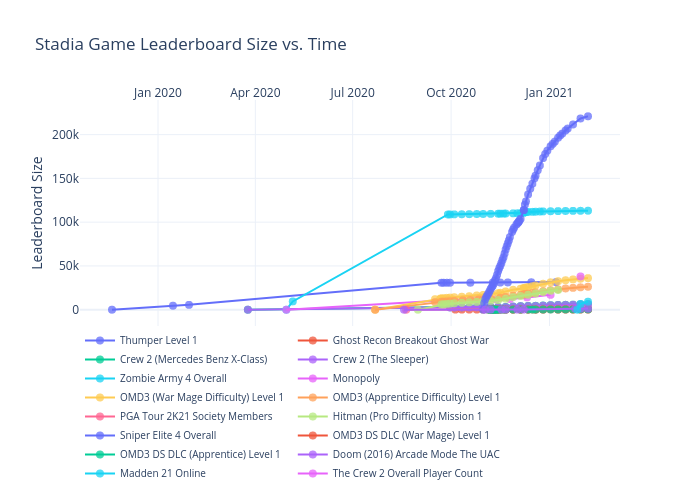
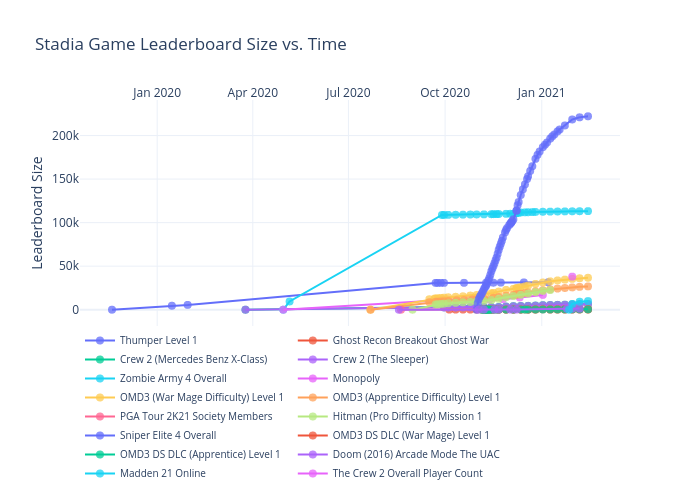
Add files via upload

diff --git a/leaderboards/figure.js b/leaderboards/figure.js
@@ -109,7 +109,8 @@ var figure = {
                 "2021-01-25",
                 "2021-01-27",
                 "2021-01-30",
-                "2021-02-06"
+                "2021-02-06",
+                "2021-02-14"
             ],
             "ysrc": "jdeslip:356:8adfc0",
             "y": [
@@ -320,7 +321,8 @@ var figure = {
                 "2021-01-25",
                 "2021-01-27",
                 "2021-01-30",
-                "2021-02-06"
+                "2021-02-06",
+                "2021-02-14"
             ],
             "ysrc": "jdeslip:356:aaaeee",
             "y": [
@@ -421,7 +423,8 @@ var figure = {
                 "",
                 "",
                 "164",
-                "170"
+                "170",
+                "175"
             ],
             "marker": {
                 "size": 8,
@@ -541,7 +544,8 @@ var figure = {
                 "2021-01-25",
                 "2021-01-27",
                 "2021-01-30",
-                "2021-02-06"
+                "2021-02-06",
+                "2021-02-14"
             ],
             "ysrc": "jdeslip:356:37c2d5",
             "y": [
@@ -642,7 +646,8 @@ var figure = {
                 "",
                 "",
                 "6133",
-                "6402"
+                "6402",
+                "6516"
             ],
             "marker": {
                 "size": 8,
@@ -762,7 +767,8 @@ var figure = {
                 "2021-01-25",
                 "2021-01-27",
                 "2021-01-30",
-                "2021-02-06"
+                "2021-02-06",
+                "2021-02-14"
             ],
             "ysrc": "jdeslip:356:c6aef6",
             "y": [
@@ -863,7 +869,8 @@ var figure = {
                 "",
                 "",
                 "5945",
-                "6196"
+                "6196",
+                "6327"
             ],
             "marker": {
                 "size": 8,
@@ -983,7 +990,8 @@ var figure = {
                 "2021-01-25",
                 "2021-01-27",
                 "2021-01-30",
-                "2021-02-06"
+                "2021-02-06",
+                "2021-02-14"
             ],
             "ysrc": "jdeslip:356:43bc60",
             "y": [
@@ -1084,7 +1092,8 @@ var figure = {
                 "",
                 "",
                 "112991",
-                "113089"
+                "113089",
+                "113201"
             ],
             "marker": {
                 "size": 8,
@@ -1204,7 +1213,8 @@ var figure = {
                 "2021-01-25",
                 "2021-01-27",
                 "2021-01-30",
-                "2021-02-06"
+                "2021-02-06",
+                "2021-02-14"
             ],
             "ysrc": "jdeslip:356:e2dbb5",
             "y": [
@@ -1412,7 +1422,8 @@ var figure = {
                 "2021-01-25",
                 "2021-01-27",
                 "2021-01-30",
-                "2021-02-06"
+                "2021-02-06",
+                "2021-02-14"
             ],
             "ysrc": "jdeslip:356:3a3ebe",
             "y": [
@@ -1513,7 +1524,8 @@ var figure = {
                 "",
                 "",
                 "35393",
-                "36094"
+                "36094",
+                "36679"
             ],
             "marker": {
                 "size": 8,
@@ -1633,7 +1645,8 @@ var figure = {
                 "2021-01-25",
                 "2021-01-27",
                 "2021-01-30",
-                "2021-02-06"
+                "2021-02-06",
+                "2021-02-14"
             ],
             "ysrc": "jdeslip:356:1504d8",
             "y": [
@@ -1734,7 +1747,8 @@ var figure = {
                 "",
                 "",
                 "25600",
-                "26228"
+                "26228",
+                "26748"
             ],
             "marker": {
                 "size": 8,
@@ -1854,7 +1868,8 @@ var figure = {
                 "2021-01-25",
                 "2021-01-27",
                 "2021-01-30",
-                "2021-02-06"
+                "2021-02-06",
+                "2021-02-14"
             ],
             "ysrc": "jdeslip:356:80add2",
             "y": [
@@ -1955,7 +1970,8 @@ var figure = {
                 "",
                 "",
                 "1025",
-                "1131"
+                "1131",
+                "1170"
             ],
             "marker": {
                 "size": 8,
@@ -2075,7 +2091,8 @@ var figure = {
                 "2021-01-25",
                 "2021-01-27",
                 "2021-01-30",
-                "2021-02-06"
+                "2021-02-06",
+                "2021-02-14"
             ],
             "ysrc": "jdeslip:356:ebc83c",
             "y": [
@@ -2287,7 +2304,8 @@ var figure = {
                 "2021-01-25",
                 "2021-01-27",
                 "2021-01-30",
-                "2021-02-06"
+                "2021-02-06",
+                "2021-02-14"
             ],
             "ysrc": "jdeslip:356:569333",
             "y": [
@@ -2388,7 +2406,8 @@ var figure = {
                 "",
                 "",
                 "218454",
-                "220944"
+                "220944",
+                "222102"
             ],
             "marker": {
                 "size": 8,
@@ -2508,7 +2527,8 @@ var figure = {
                 "2021-01-25",
                 "2021-01-27",
                 "2021-01-30",
-                "2021-02-06"
+                "2021-02-06",
+                "2021-02-14"
             ],
             "ysrc": "jdeslip:356:9a31c2",
             "y": [
@@ -2609,7 +2629,8 @@ var figure = {
                 "",
                 "",
                 "436",
-                "455"
+                "455",
+                "488"
             ],
             "marker": {
                 "size": 8,
@@ -2729,7 +2750,8 @@ var figure = {
                 "2021-01-25",
                 "2021-01-27",
                 "2021-01-30",
-                "2021-02-06"
+                "2021-02-06",
+                "2021-02-14"
             ],
             "ysrc": "jdeslip:356:287618",
             "y": [
@@ -2830,7 +2852,8 @@ var figure = {
                 "",
                 "",
                 "360",
-                "377"
+                "377",
+                "397"
             ],
             "marker": {
                 "size": 8,
@@ -2950,7 +2973,8 @@ var figure = {
                 "2021-01-25",
                 "2021-01-27",
                 "2021-01-30",
-                "2021-02-06"
+                "2021-02-06",
+                "2021-02-14"
             ],
             "ysrc": "jdeslip:356:d3fac4",
             "y": [
@@ -3170,7 +3194,8 @@ var figure = {
                 "2021-01-25",
                 "2021-01-27",
                 "2021-01-30",
-                "2021-02-06"
+                "2021-02-06",
+                "2021-02-14"
             ],
             "ysrc": "jdeslip:356:39a23f",
             "y": [
@@ -3271,7 +3296,8 @@ var figure = {
                 "",
                 "0",
                 "6595",
-                "9164"
+                "9164",
+                "9900"
             ],
             "marker": {
                 "size": 8,
@@ -3390,7 +3416,8 @@ var figure = {
                 "2021-01-25",
                 "2021-01-27",
                 "2021-01-30",
-                "2021-02-06"
+                "2021-02-06",
+                "2021-02-14"
             ],
             "ysrc": "jdeslip:356:8e3882",
             "y": [
@@ -3509,8 +3536,8 @@ var figure = {
             "side": "top",
             "type": "date",
             "range": [
-                "2019-10-22 11:39:40.3501",
-                "2021-03-05 12:20:19.6499"
+                "2019-10-21 23:47:23.8171",
+                "2021-03-14 00:12:36.1829"
             ],
             "title": {
                 "text": ""
@@ -3520,8 +3547,8 @@ var figure = {
         "yaxis": {
             "type": "linear",
             "range": [
-                -36248.625,
-                257192.625
+                -16065.668680157052,
+                238167.66868015705
             ],
             "title": {
                 "text": "Leaderboard Size"
